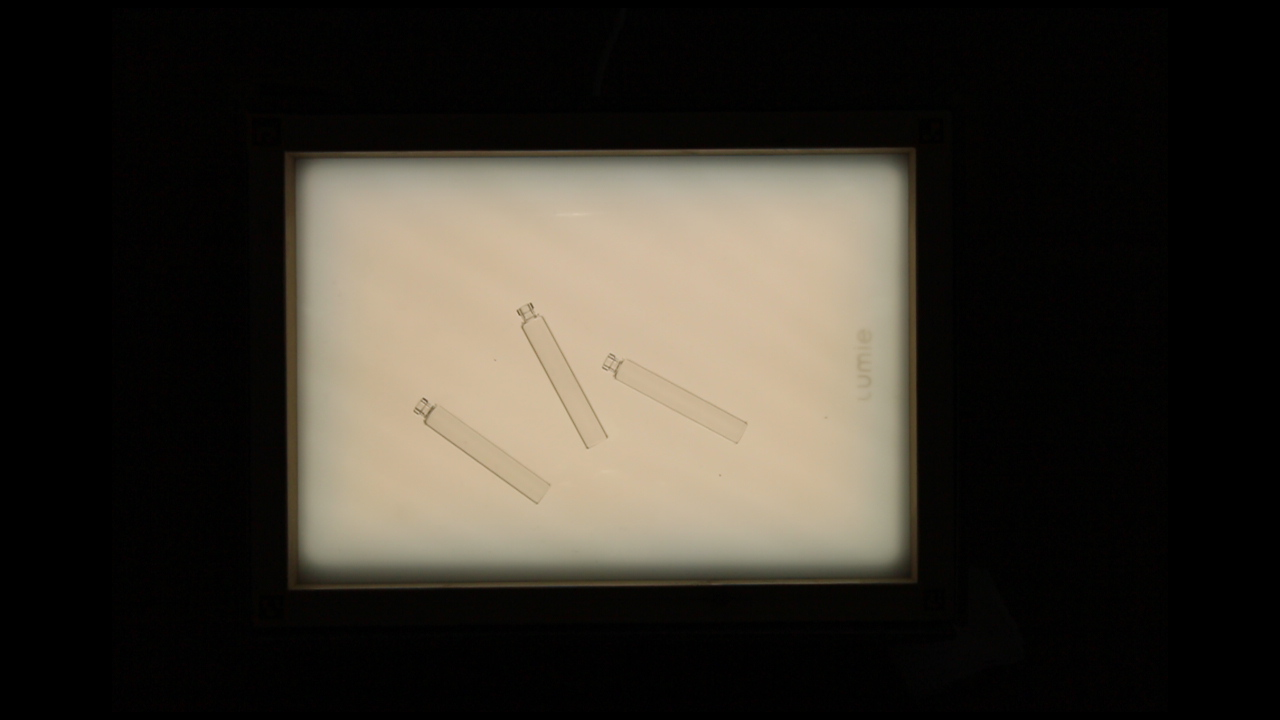
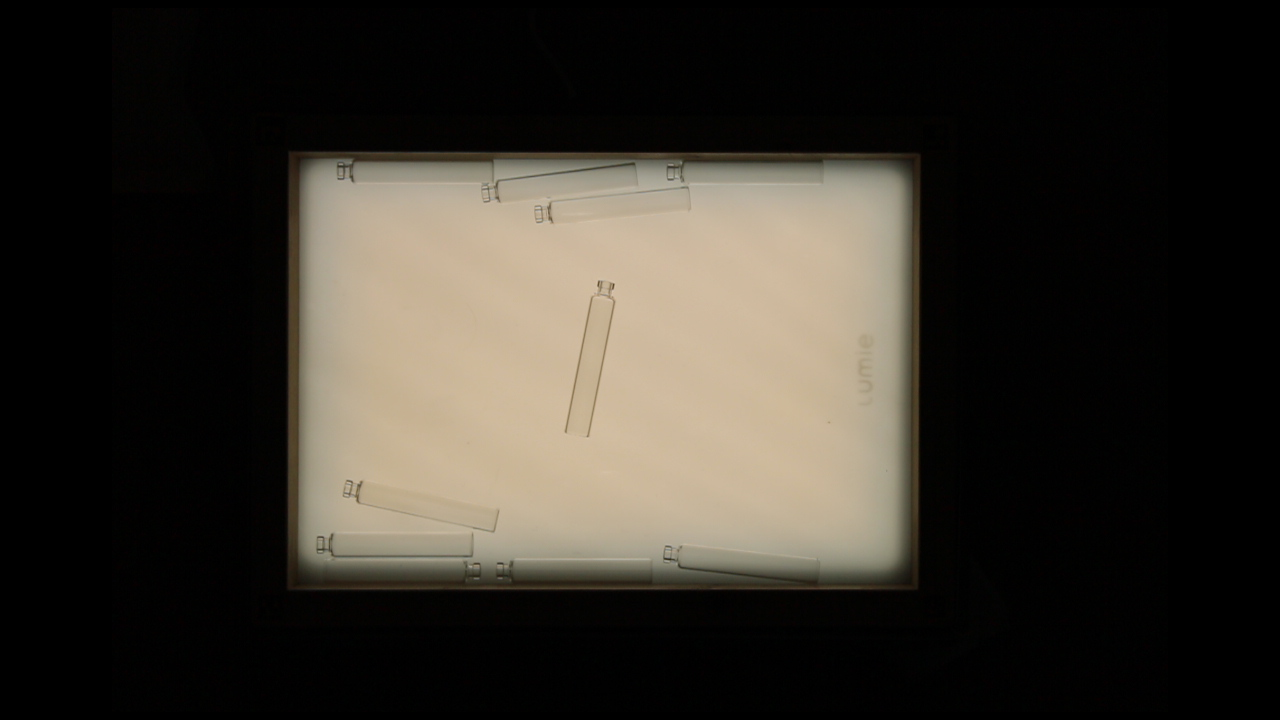
Slight changes and hollow tip

diff --git a/GlassSegmentV1/RobotLib.py b/GlassSegmentV1/RobotLib.py
@@ -121,7 +121,7 @@ def robotRunV2(x, y, rz):
     rz = rz - 0.14 # slight offset in rz
     z = -0.014
     t=robot.transform(x,y,z) #* Generate placement of the glass in robot frame
-    cmd_initial_approach = '    movel(p['+str(t[0])+','+str(t[1])+','+str(t[2])+','+str(rx)+','+str(ry)+','+str(rz)+'],0.6,0.3, t=0)' + '\n'
+    cmd_initial_approach = '    movel(p['+str(t[0])+','+str(t[1])+','+str(t[2])+','+str(rx)+','+str(ry)+','+str(rz)+'],0.6,0.3)' + '\n'
     
     #* Pickup slow approach
     z = 0.0275
@@ -136,7 +136,7 @@ def robotRunV2(x, y, rz):
     q_w1 = -1.757837
     q_w2 = 1.570796
     q_w3 = 1.291163
-    cmd_handoff_first = '    movej(['+str(q_b)+','+str(q_s)+','+str(q_e)+','+str(q_w1)+','+str(q_w2)+','+str(q_w3)+'],1.1,1.3, t=0, r=0.15)' + '\n'
+    cmd_handoff_first = '    movej(['+str(q_b)+','+str(q_s)+','+str(q_e)+','+str(q_w1)+','+str(q_w2)+','+str(q_w3)+'],1.1,1.3, t=0, r=0.13)' + '\n'
     
     #* Handoff 2
     q = handOffPos[:, extractCounter]
@@ -145,13 +145,14 @@ def robotRunV2(x, y, rz):
     
     cmd_defprogram = ('def runcycle():\n')
     cmd_endprogram = ('end\n')
-    cmd_sleepcommand = ('sleep(0.8)\n')
+    cmd_sleepcommand = ('sleep(0.4)\n')
     if contEmpty == True:
         s.send(cmd_defprogram.encode())
         s.send(cmd_waitpos.encode())
         s.send(cmd_initial_approach.encode())
         s.send(cmd_slow_approach.encode())
         s.send(cmd_sleepcommand.encode())
+        s.send(cmd_waitpos.encode())
         s.send(cmd_handoff_first.encode())
         s.send(cmd_handoff_second.encode())
         s.send(cmd_sleepcommand.encode())
@@ -168,12 +169,12 @@ def robotRunV2(x, y, rz):
 
         while not handoffFlag:
             q_robot = get_URdata(True)
-            if((q_robot[0] >= q[0] - 0.034 and q_robot[0] <= q[0] + 0.034
-                and q_robot[1] >= q[1] - 0.034 and q_robot[1] <= q[1] + 0.034
-                and q_robot[2] >= q[2] - 0.034 and q_robot[2] <= q[2] + 0.034
-                and q_robot[3] >= q[3] - 0.034 and q_robot[3] <= q[3] + 0.034
-                and q_robot[4] >= q[4] - 0.034 and q_robot[4] <= q[4] + 0.034
-                and q_robot[5] >= q[5] - 0.034 and q_robot[5] <= q[5] + 0.034)):
+            if((q_robot[0] >= q[0] - 0.04 and q_robot[0] <= q[0] + 0.04
+                and q_robot[1] >= q[1] - 0.04 and q_robot[1] <= q[1] + 0.04
+                and q_robot[2] >= q[2] - 0.04 and q_robot[2] <= q[2] + 0.04
+                and q_robot[3] >= q[3] - 0.04 and q_robot[3] <= q[3] + 0.04
+                and q_robot[4] >= q[4] - 0.04 and q_robot[4] <= q[4] + 0.04
+                and q_robot[5] >= q[5] - 0.04 and q_robot[5] <= q[5] + 0.04)):
                     gripperOpen()
                     handoffFlag = True
 
@@ -275,7 +276,7 @@ def startPos():
     q_e = 2.230737222704673
     q_w1 = -1.658563888663564
     q_w2 = 1.5707963267948988
-    q_w3 = 0
+    q_w3 = 1.58
     cmdstring = 'movej(['+str(q_b)+','+str(q_s)+','+str(q_e)+','+str(q_w1)+','+str(q_w2)+','+str(q_w3)+'],0.9,0.6)' + '\n'
     s.send(cmdstring.encode())
     q = get_URdata(True)

diff --git a/GlassSegmentV1/LineSearchLib.py b/GlassSegmentV1/LineSearchLib.py
@@ -536,7 +536,7 @@ def templatematch(img, template, houghLocation, h_steps = 10, w_steps = 10):
     # * line-pair = |slope1 = a rad | x1start | y1start | x1end | y1end | hyp1 | slope2 = b rad | x2start | y2start | x2end | y2end | hyp2 |
     maxval = 0
     Acceptthreshold = 185
-    Rejectthreshold = 145
+    Rejectthreshold = 120
     iterations = 1
     while iterations < 5 and maxval < Acceptthreshold:
         h_steps = round((h_steps * iterations / 2))

diff --git a/GlassSegmentV1/PreprocessingLib.py b/GlassSegmentV1/PreprocessingLib.py
@@ -31,7 +31,7 @@ def PrepImg(img, corners):
     #img = unsharp_mask(img, kernel_size = (3,3), amount = 1, threshold = 0.131)
     img = cv2.Laplacian(img, ddepth = cv2.CV_8U, delta = 5)
     img = img_as_ubyte(img)
-    img = cv2.threshold(img, 12, maxval = 255, type = cv2.THRESH_BINARY)
+    img = cv2.threshold(img, 11, maxval = 255, type = cv2.THRESH_BINARY)
     img = img[1]
 
     # Filter using contour area and remove small noise

diff --git a/GlassSegmentV1/GlassSegmentV1.py b/GlassSegmentV1/GlassSegmentV1.py
@@ -57,7 +57,7 @@ while True:
         cam = cv2.VideoCapture(0, cv2.CAP_DSHOW)
         offlineFlag = False
         start_time = time.time()
-        template = cv2.imread('./images/VialTop.png', 0) # * Load template
+        template = cv2.imread('./images/VialTopHollow.png', 0) # * Load template
         cv2.namedWindow("Image")
         ret, img = cam.read()
         if not ret or img.shape != (720, 1280, 3):
